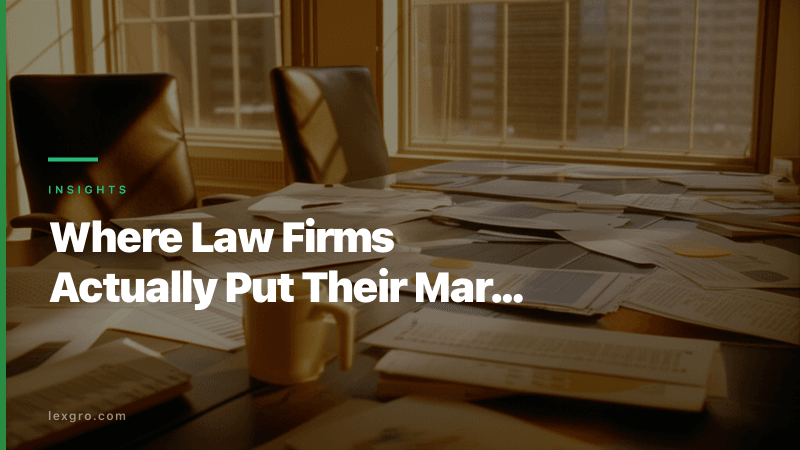
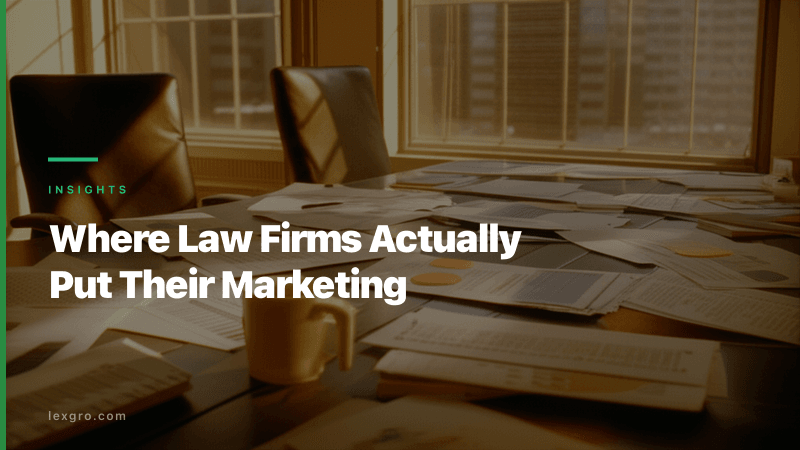
Fix insight card text guardrails, add detail hero images, update soul docs
- Card text: 26 chars/line, 38px font, word-boundary truncation
- Insights keep full titles (data is the hook)
- Generated 1920x1080 hero images for all 3 insight detail pages
- Regenerated all insight card + OG images with new guardrails
- CLAUDE.md: Session 10, 92 pages, insights collection, Clicky analytics

Changed region(s): [[0.0625, 0.5911, 0.6562, 0.6844], [0.0625, 0.4667, 0.6562, 0.5911]]

diff --git a/scripts/generate-all-og.ts b/scripts/generate-all-og.ts
@@ -87,6 +87,7 @@ const STATIC_PAGES: { slug: string; title: string; category: string }[] = [
 ]
 
 interface PageConfig {
+  contentType?: string
   slug: string
   title: string
   category: string
@@ -273,13 +274,26 @@ function escapeXml(str: string): string {
 /**
  * Extract a punchy headline for cards - not just parroting the full title
  * Focuses on the main keyword phrase and keeps it readable
+ *
+ * For insights/research content, we keep more of the title since the data IS the hook.
+ * For blog/guide content, we strip filler prefixes for punchier cards.
  */
-function getCardHeadline(title: string): string {
+function getCardHeadline(title: string, contentType?: string): string {
+  // Insights titles are data-driven - the numbers are the hook, keep more of the title
+  if (contentType === 'insights') {
+    // For insights: take the full title but cap at 9 words
+    const words = title.split(' ')
+    if (words.length > 9) {
+      return words.slice(0, 9).join(' ')
+    }
+    return title
+  }
+
   // Extract main phrase (before : or | or — but NOT hyphens which are often in keywords)
   const mainPhrase = title.split(/[:|—]/)[0].trim()
 
   // Remove common filler prefixes for punchier headlines
-  const fillers = ['How to', 'How a', 'The Ultimate', 'A Guide to', 'Why ', 'What is', 'Top ']
+  const fillers = ['How to', 'How a', 'The Ultimate', 'A Guide to', 'Why ', 'What is', 'What Are', 'Top ', 'Where ']
   let headline = mainPhrase
   for (const filler of fillers) {
     if (headline.toLowerCase().startsWith(filler.toLowerCase())) {
@@ -302,9 +316,9 @@ function getCardHeadline(title: string): string {
 /**
  * Wrap title text to max 2 lines
  */
-function wrapTitle(title: string, maxCharsPerLine: number = 28, isCard: boolean = false): string[] {
+function wrapTitle(title: string, maxCharsPerLine: number = 28, isCard: boolean = false, contentType?: string): string[] {
   // For cards, use punchy headline instead of full title
-  const displayTitle = isCard ? getCardHeadline(title) : title
+  const displayTitle = isCard ? getCardHeadline(title, contentType) : title
 
   const words = displayTitle.split(' ')
   const lines: string[] = []
@@ -321,9 +335,20 @@ function wrapTitle(title: string, maxCharsPerLine: number = 28, isCard: boolean 
   }
   if (currentLine) lines.push(currentLine)
 
-  // Max 2 lines
+  // Max 2 lines - truncate at word boundary
   if (lines.length > 2) {
-    return [lines[0], lines.slice(1).join(' ').slice(0, maxCharsPerLine) + '...']
+    const remaining = lines.slice(1).join(' ')
+    const words = remaining.split(' ')
+    let line2 = ''
+    for (const word of words) {
+      const test = line2 ? `${line2} ${word}` : word
+      if (test.length <= maxCharsPerLine - 1) {
+        line2 = test
+      } else {
+        break
+      }
+    }
+    return [lines[0], line2]
   }
   return lines
 }
@@ -336,15 +361,16 @@ function createTextOverlaySVG(
   height: number,
   category: string,
   title: string,
-  isCard: boolean = false
+  isCard: boolean = false,
+  contentType?: string
 ): string {
   const padding = isCard ? 48 : SAFE_PADDING
-  const titleLines = wrapTitle(title, isCard ? 22 : 28, isCard)
+  const titleLines = wrapTitle(title, isCard ? 26 : 28, isCard, contentType)
 
-  // Scale fonts for cards
+  // Scale fonts for cards - slightly smaller to fit wider text safely
   const categorySize = isCard ? 11 : 13
-  const titleSize = isCard ? 42 : 56
-  const lineHeight = isCard ? 50 : 64
+  const titleSize = isCard ? 38 : 56
+  const lineHeight = isCard ? 46 : 64
 
   // Position from bottom
   const accentY = height * 0.35
@@ -433,7 +459,7 @@ async function compositeImage(
   // Create all overlays
   const overlayBuffer = Buffer.from(createOverlaySVG(width, height))
   const accentBuffer = Buffer.from(createAccentBarSVG(width, height))
-  const textBuffer = Buffer.from(createTextOverlaySVG(width, height, config.category, config.title, isCard))
+  const textBuffer = Buffer.from(createTextOverlaySVG(width, height, config.category, config.title, isCard, config.contentType))
   const brandingBuffer = Buffer.from(createBrandingSVG(width, height, isCard))
 
   // Composite layers
@@ -594,6 +620,7 @@ async function generateContentOG(): Promise<void> {
 
     const fullSlug = `${item.type}/${item.slug}`
     const config: PageConfig = {
+      contentType: item.type,
       slug: fullSlug,
       title: item.title,
       category: item.type.toUpperCase(),
@@ -630,6 +657,7 @@ async function generateCards(): Promise<void> {
 
     const fullSlug = `${item.type}/${item.slug}`
     const config: PageConfig = {
+      contentType: item.type,
       slug: fullSlug,
       title: item.title,
       category: item.type.toUpperCase(),

diff --git a/CLAUDE.md b/CLAUDE.md
@@ -215,7 +215,27 @@ See `docs/OG-IMAGE-STYLE-GUIDE.md` for comprehensive guidelines. Key points:
 
 ## Project Status
 **Current Phase:** Site Migration from Framer to Astro
-**Last Updated:** February 4, 2026 (Session 9)
+**Last Updated:** February 27, 2026 (Session 10)
+
+### ✅ Session 10 - Insights Collection + Analytics + Card Image Guardrails
+- **`/insights/` collection built:**
+  - 3 data-driven research reports (PI CPL benchmarks, fractional CMO ROI, marketing spend 2026)
+  - InsightLayout with reading progress bar, TOC sidebar, key findings callout, methodology section, JSON-LD
+  - Index page with hero image, card images, featured insight, filter bar, type badges
+  - OG images (1200x630) and card images (800x450) for all 3 insights
+  - Content schema: keyFindings, dataDate, insightType, methodology, practiceArea
+- **Fractional CMO content pages:**
+  - `/fractional-cmo/` - Main fractional CMO page
+  - `/personal-injury/` - PI-specific fractional CMO page
+- **Card image text guardrails improved:**
+  - Insights titles preserve data (numbers, $, %) instead of stripping them
+  - Widened card text from 22 to 26 chars/line for better readability
+  - Reduced card title font from 42px to 38px for safe zone compliance
+  - Word-boundary truncation (no more mid-word cuts)
+  - Content-type-aware headline extraction
+- **Analytics:** Clicky analytics (ID: 101502024) added to BaseLayout
+- **Footer:** Insights link added to Resources column
+- **Hero images:** Generated insights-index-hero.jpg via Gemini
 
 ### ✅ Session 9 - Homepage Visual Redesign + CTA Consolidation
 - **Homepage sections redesigned:**
@@ -303,12 +323,15 @@ public/og/                    # OG images (1200x630)
 ├── guide.png                 # Guides index
 ├── blog.png                  # Blog index
 ├── answers.png               # Answers index
+├── insights.png              # Insights index
 ├── blog/                     # Blog post OG images
 │   └── *.png                 # 27 blog posts
 ├── guide/                    # Guide OG images
 │   └── *.png
 ├── answers/                  # Answer OG images
 │   └── *.png
+├── insights/                 # Insight OG images
+│   └── *.png                 # 3 research reports
 └── services/                 # Service OG images
     └── *.png
 
@@ -319,6 +342,8 @@ public/cards/                 # Card images (800x450) for previews
 │   └── *.png
 ├── answers/
 │   └── *.png
+├── insights/
+│   └── *.png                 # 3 insight cards
 └── services/
     └── *.png
 ```
@@ -348,9 +373,18 @@ src/lib/og/
 └── prompts.ts           # 30+ page categories with gradients
 
 scripts/
-├── generate-all-og.ts   # Batch generation for all pages
+├── generate-all-og.ts   # Batch OG + card generation (content-type-aware)
+├── generate-hero-images.ts  # Hero backgrounds via Gemini (1920x1080)
 └── generate-homepage-og.ts  # Homepage-specific with Gemini
 ```
+
+### Card Image Guardrails
+- **OG images:** 1200x630, 80px safe padding, 28 chars/line, 56px title font
+- **Card images:** 800x450, 48px safe padding, 26 chars/line, 38px title font
+- **Max 2 lines** for titles on both formats
+- **Insights content** preserves full titles (data/numbers are the hook)
+- **Blog/guide content** uses punchy headline extraction (strips filler prefixes)
+- **Truncation** always at word boundaries (no mid-word cuts)
 
 ## Migration Progress
 
@@ -361,10 +395,10 @@ scripts/
 - [x] `Header.astro` - Astro-native nav with mobile menu
 - [x] `Footer.astro` - Astro-native footer
 - [x] Content collections config (`src/content.config.ts`)
-- [x] 4 page layouts: GuideLayout, AnswerLayout, ServiceLayout, BlogLayout
+- [x] 5 page layouts: GuideLayout, AnswerLayout, ServiceLayout, BlogLayout, InsightLayout
 - [x] Dynamic routing for all content types
 
-### 📄 Pages Built (78 Total)
+### 📄 Pages Built (92 Total)
 
 **Core Pages:**
 - `/` - Homepage (COMPLETE - all 17 sections)
@@ -376,6 +410,8 @@ scripts/
 - `/results/` - Case studies and success stories
 - `/calculator/` - Marketing ROI calculator
 - `/careers/` - Careers page
+- `/how-we-work/` - System overview
+- `/lexxly/` - Intelligence platform
 
 **Services:**
 - `/services/` - Services index with cards and process
@@ -383,6 +419,8 @@ scripts/
 - `/services/vendor/` - Vendor platform service
 - `/services/evergreen-marketing/` - Training service
 - `/services/evergreen-consulting/` - Consulting service
+- `/fractional-cmo/` - Fractional CMO landing page
+- `/personal-injury/` - PI-specific fractional CMO page
 
 **Content Hubs:**
 - `/blog/` - Blog index with featured posts (uses card images)
@@ -391,6 +429,8 @@ scripts/
 - `/guide/[slug]/` - Guide pages
 - `/answers/` - Answers index with search
 - `/answers/[slug]/` - Answer pages
+- `/insights/` - Research index with hero, card images, filter bar
+- `/insights/[slug]/` - 3 insight reports (benchmarks, market analysis, surveys)
 
 **Podcast (29 pages):**
 - `/podcast/` - Law Firm Growth Podcast index
@@ -458,7 +498,7 @@ scripts/
 ## Dev Commands
 ```bash
 npm run dev -- --port 4322   # Dev server
-npm run build                 # Build (78 pages)
+npm run build                 # Build (92 pages)
 npx tsx scripts/generate-all-og.ts  # Generate OG images
 ```
 
@@ -473,7 +513,8 @@ src/
 │   ├── GuideLayout.astro
 │   ├── AnswerLayout.astro
 │   ├── ServiceLayout.astro
-│   └── BlogLayout.astro
+│   ├── BlogLayout.astro
+│   └── InsightLayout.astro
 ├── pages/
 │   ├── index.astro          # Homepage
 │   ├── about.astro
@@ -488,6 +529,7 @@ src/
 │   ├── answers/
 │   ├── services/
 │   ├── blog/
+│   ├── insights/
 │   ├── podcast/
 │   ├── cmo-podcast/
 │   └── tips-from-keith/
@@ -501,15 +543,17 @@ src/
     ├── blog/
     ├── guides/
     ├── answers/
+    ├── insights/
     └── services/
 
 public/
-├── og/                      # 43 OG images
-├── cards/                   # 30 card images
+├── og/                      # 46+ OG images
+├── cards/                   # 33+ card images
 └── og-image.png             # Default OG fallback
 
 scripts/
 ├── generate-all-og.ts       # Batch OG generation
+├── generate-hero-images.ts  # Hero backgrounds via Gemini
 ├── generate-homepage-og.ts  # Homepage OG with Gemini
 ├── audit-content.ts         # Style guide audit (npm run audit)
 ├── fix-content-style.ts     # Auto-fix style issues (npm run fix:style)
@@ -525,9 +569,9 @@ scripts/
 - Planning docs: `planning/`
 - Content briefs: `planning/briefs/phase-1/`
 
-## Current Framer Site
+## Current Site
 - URL: https://lexgro.com
-- Analytics: GA (G-2Z5L72S3NL), Facebook Pixel, Hyros
+- Analytics: GA (G-2Z5L72S3NL), GTM (GTM-WK56H7KT), Clicky (101502024), Facebook Pixel, Hyros
 
 ## Astro 5 Notes
 - Use `render()` from `astro:content` instead of `entry.render()`
